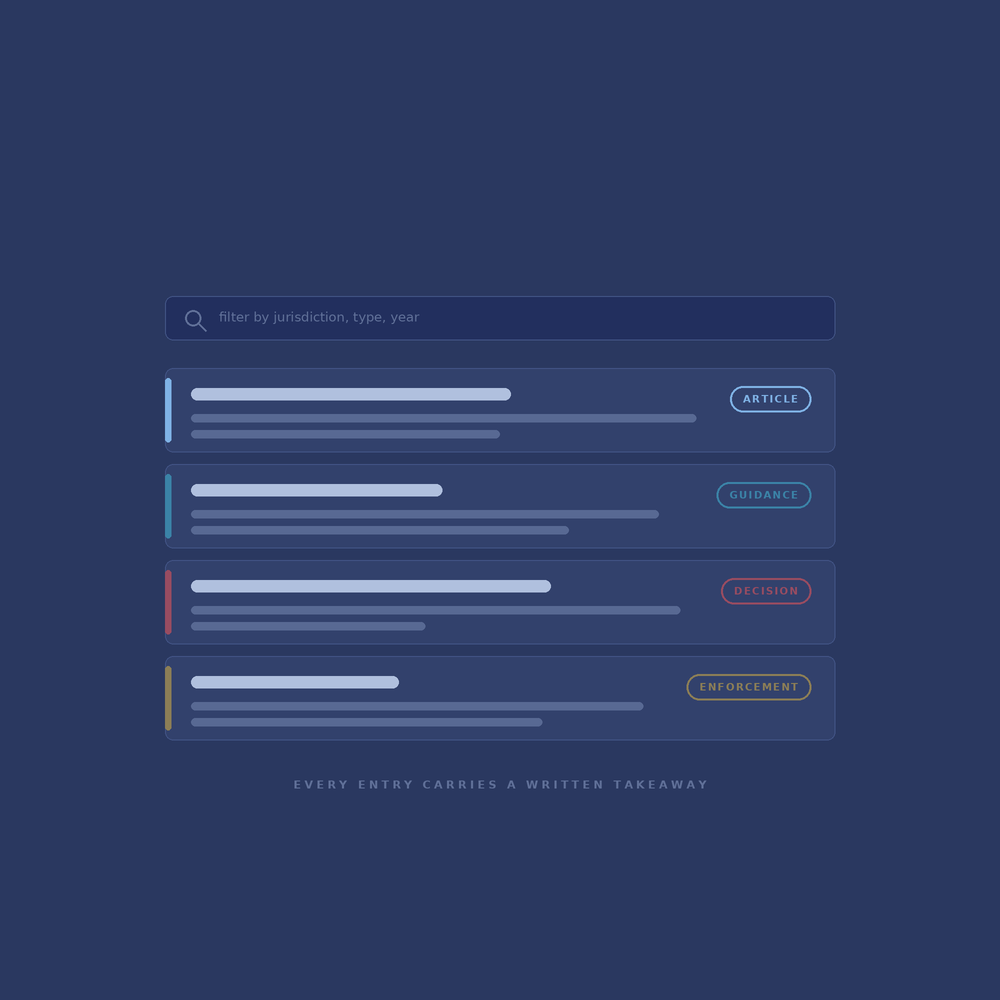
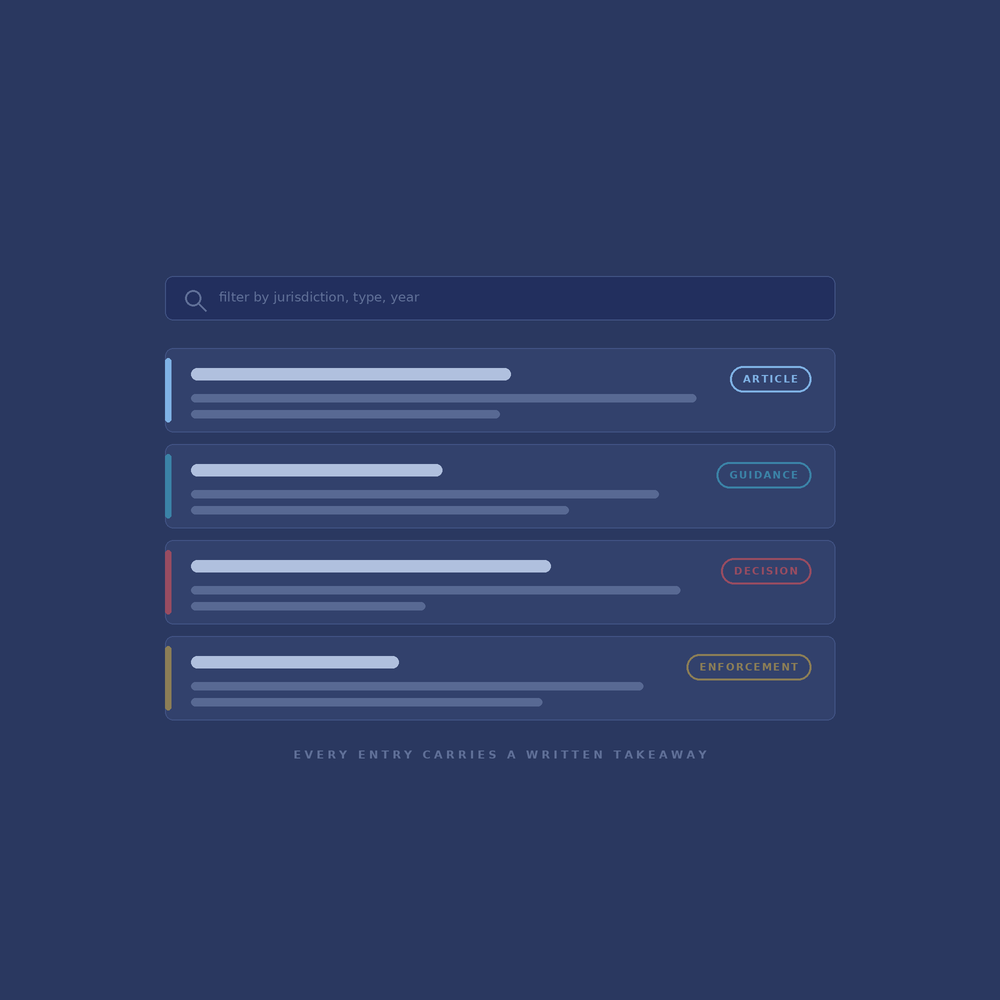
update index

diff --git a/index.html b/index.html
@@ -41,7 +41,7 @@
 				<div class="inner">
 					<nav>
 						<ul>
-							<a href="" class="image avatar" aria-label="Profile Photo"><img src="images/avatar.png" alt="Simeon Atanasov's professional headshot" loading="lazy" /></a>
+							<li><span class="image avatar"><img src="images/avatar.png" alt="Simeon Atanasov's professional headshot" loading="lazy" /></span></li>
 							<li><a href="#intro">Intro</a></li>
 							<li class="portfolio-menu">
 								<a href="#one">Portfolio</a>
@@ -107,7 +107,7 @@
 				<!-- One -->
 					<section id="one" class="wrapper style2 spotlights">
 						<section>
-							<a href="cookie-banner-scanner.html" class="image"><img src="images/automated-cookie-banner-scanner.jpg" alt="Cookie banner scanner interface" data-position="center center" /></a>
+							<a href="cookie-banner-scanner.html" class="image"><img src="images/automated-cookie-banner-scanner.jpg" alt="Cookie Banner Scanner" data-position="center center" /></a>
 							<div class="content">
 								<div class="inner">
 									<h2>Cookie Banner Scanner</h2>
@@ -143,7 +143,7 @@
 							</div>
 						</section>
 						<section class="spotlight-assessment">
-							<a href="ai-act-digest.html" class="image"><img loading="lazy" src="images/regulatory-digests.png" alt="Regulatory digests: a filtered list of entries, each with a written takeaway" data-position="center center" /></a>
+							<a href="ai-act-digest.html" class="image"><img loading="lazy" src="images/regulatory-digests.png" alt="Regulatory Digests" data-position="center center" /></a>
 							<div class="image-tools">
 								<a href="ai-act-digest.html" class="tool-chip">AI Act Digest</a>
 								<a href="cookie-digest.html" class="tool-chip">Cookie Digest</a>
@@ -159,7 +159,7 @@
 								</div>
 							</div>
 						</section>
-						<section>
+						<section class="spotlight-power-bi">
 							<a href="power-bi.html" class="image"><img loading="lazy" src="images/power-bi-dashboard.png" alt="GDPR Fines Power BI Dashboard" data-position="center center" /></a>
 							<div class="content">
 								<div class="inner">
@@ -173,7 +173,7 @@
 							</div>
 						</section>
 						<section class="spotlight-assessment">
-							<a href="privacy-ai-assessment.html" class="image"><img loading="lazy" src="images/pic04.jpg" alt="Privacy and AI Governance Self-Assessment" data-position="25% 25%" /></a>
+							<a href="privacy-ai-assessment.html" class="image"><img loading="lazy" src="images/pic04.jpg" alt="Privacy &amp; AI Risk Assessments" data-position="25% 25%" /></a>
 							<div class="image-tools">
 								<a href="privacy-ai-assessment.html#tool-privacy" class="tool-chip">Privacy Assessment</a>
 								<a href="privacy-ai-assessment.html#tool-dpia" class="tool-chip">Full DPIA</a>

diff --git a/assets/css/home-extra.css b/assets/css/home-extra.css
@@ -164,3 +164,31 @@
 			padding: 0.55em 0.75em;
 		}
 }
+
+/* The Power BI tile is a composite: the wordmark runs almost the full width of
+   the square and the dashboard sits under it, so a cover crop cuts something at
+   every width. At 1600px the slot is 433 x 573 and keeps only the central 76%
+   of the width, which takes the ends off the wordmark; at 900px it is 900 x 500
+   and keeps the central 56% of the height, which slices the wordmark through
+   the middle. Contain it instead and let the screenshot's own white fill the
+   rest of the panel. No !important is needed: home-extra.css loads after
+   main.css and this selector outranks the template's
+   .spotlights > section > .image. */
+#one.spotlights > section.spotlight-power-bi > .image {
+	background-color: #ffffff;
+	background-repeat: no-repeat;
+	background-size: contain;
+}
+
+/* The avatar is a portrait rather than a link now, so #sidebar nav a no longer
+   styles it. These four declarations are the ones from that rule that set its
+   box; without them the nav below it moves. The font-size matters more than it
+   looks: the padding is in em, so at the inherited size it is several times
+   larger than it was. Measured at 1600px, the avatar and the nav items below it
+   land within 2px of where the anchor put them. */
+#sidebar nav .image.avatar {
+	display: block;
+	font-size: 0.6em;
+	line-height: 1.75;
+	padding: 1.35em 0;
+}

diff --git a/Claude outputs/home-tile-build/make_regulatory_digests_tile.py b/Claude outputs/home-tile-build/make_regulatory_digests_tile.py
@@ -8,8 +8,9 @@ the left half of the image already name the AI Act, cookie and EDPB digests, and
 two sets of labels read as clutter.
 
 Palette and proportions match images/risk-matrix-tile.png: 1000 x 1000, the
-#2a3860 page navy, content held between y 290 and y 790 so the spotlight's
-horizontal crop never cuts it, and drawn at 2x then resized for clean edges.
+#2a3860 page navy, content held between y 276 and y 760, which is inside both
+the central 82 percent of width the desktop crop keeps and the central 56 percent of
+height the 900px tablet crop keeps, and drawn at 2x then resized for clean edges.
 
 Needs Pillow and the DejaVu fonts. Run it from anywhere:
     python3 make_regulatory_digests_tile.py
@@ -72,11 +73,11 @@ f_field = f(R, 13)
 LEFT, RIGHT = 165, 835
 
 # Filter field.
-rr((LEFT, 296, RIGHT, 340), 8, fill=FIELD, outline=CARD_EDGE, width=1)
+rr((LEFT, 276, RIGHT, 320), 8, fill=FIELD, outline=CARD_EDGE, width=1)
 # magnifier
-d.ellipse([(LEFT + 20) * S, 310 * S, (LEFT + 36) * S, 326 * S], outline=DIM, width=2 * S)
-d.line([(LEFT + 34) * S, 324 * S, (LEFT + 41) * S, 331 * S], fill=DIM, width=2 * S)
-d.text(((LEFT + 54) * S, 309 * S), "filter by jurisdiction, type, year",
+d.ellipse([(LEFT + 20) * S, 290 * S, (LEFT + 36) * S, 306 * S], outline=DIM, width=2 * S)
+d.line([(LEFT + 34) * S, 304 * S, (LEFT + 41) * S, 311 * S], fill=DIM, width=2 * S)
+d.text(((LEFT + 54) * S, 289 * S), "filter by jurisdiction, type, year",
        font=f_field, fill=DIM)
 
 # Entry cards: a chip, a title bar and two takeaway lines each.
@@ -87,7 +88,7 @@ entries = [
     ("ENFORCEMENT", OLIVE, 0.44, 0.85, 0.66),
 ]
 
-y = 368
+y = 348
 for label, colour, t_w, l1, l2 in entries:
     rr((LEFT, y, RIGHT, y + 84), 8, fill=CARD, outline=CARD_EDGE, width=1)
     d.rounded_rectangle([LEFT * S, (y + 10) * S, (LEFT + 6) * S, (y + 74) * S],
@@ -111,7 +112,7 @@ for label, colour, t_w, l1, l2 in entries:
     y += 96
 
 tw = tracked_width("EVERY ENTRY CARRIES A WRITTEN TAKEAWAY", f_cap, 3.4) / S
-tracked(((W - tw) / 2) * S, 778 * S, "EVERY ENTRY CARRIES A WRITTEN TAKEAWAY",
+tracked(((W - tw) / 2) * S, 748 * S, "EVERY ENTRY CARRIES A WRITTEN TAKEAWAY",
         f_cap, DIM, 3.4)
 
 im = im.resize((W, H), Image.LANCZOS)
